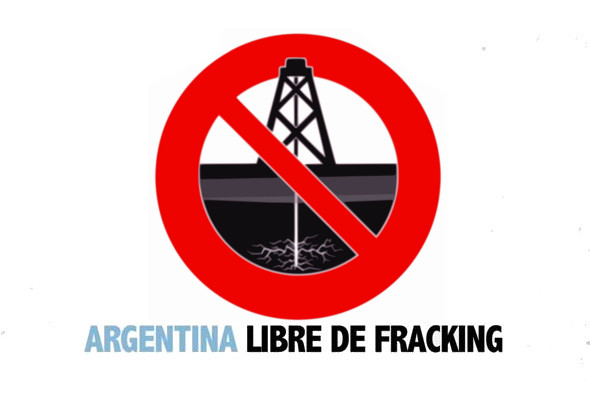
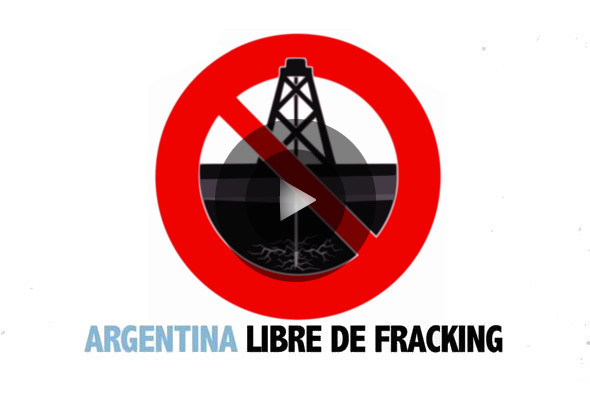
agregando video

Changed region(s): [[0.3661, 0.3, 0.6407, 0.72], [0.3661, 0.6, 0.3966, 0.63]]

diff --git a/views/home.html b/views/home.html
@@ -3,11 +3,15 @@
 		<br />
 		<div style="height: 42px" class="hidden-sm"> &nbsp; </div>
 		<div id="mainslider">
+			<a href="javascript:void()" id="play">
 			<ul class="bjqs">
 				<li><img src="/images/fracking_pozos.jpg" alt="Para el fracking se realizan cientos de pozos." /></li>
 				<li><img src="/images/fracking_agua.jpeg" alt="El fracking contamina el agua." /></li>
 				<li><img src="/images/argentina_libre_de_fracking.jpg" alt="Argentina libre de fracking" /></li>
 			</ul>
+			</a>
+		</div>
+		<div style="display: none" id="video">
 		</div>
 
 	</div>
@@ -293,5 +297,13 @@
       xfbml: true,
       version: 'v2.1'
     });
+
+
+		jQuery('#play').on('click',function(e){
+			e.preventDefault();
+			jQuery('#mainslider').hide();
+			jQuery('#video').html('<iframe width="100%" height="300" src="//www.youtube.com/embed/i9MOISFiAP4?autoplay=!" frameborder="0" allowfullscreen></iframe>').show();
+		});
+
   });
 </script>

diff --git a/views/assets/css/yolosparo.css b/views/assets/css/yolosparo.css
@@ -13,6 +13,7 @@ body {
 }
 
 #mainslider { text-align: center; margin: 0 auto; }
+#video { text-align: center; margin: 0 auto; }
 
 /** Social channel action (ie: fb, twitter, etc) */
 .social-channel {
